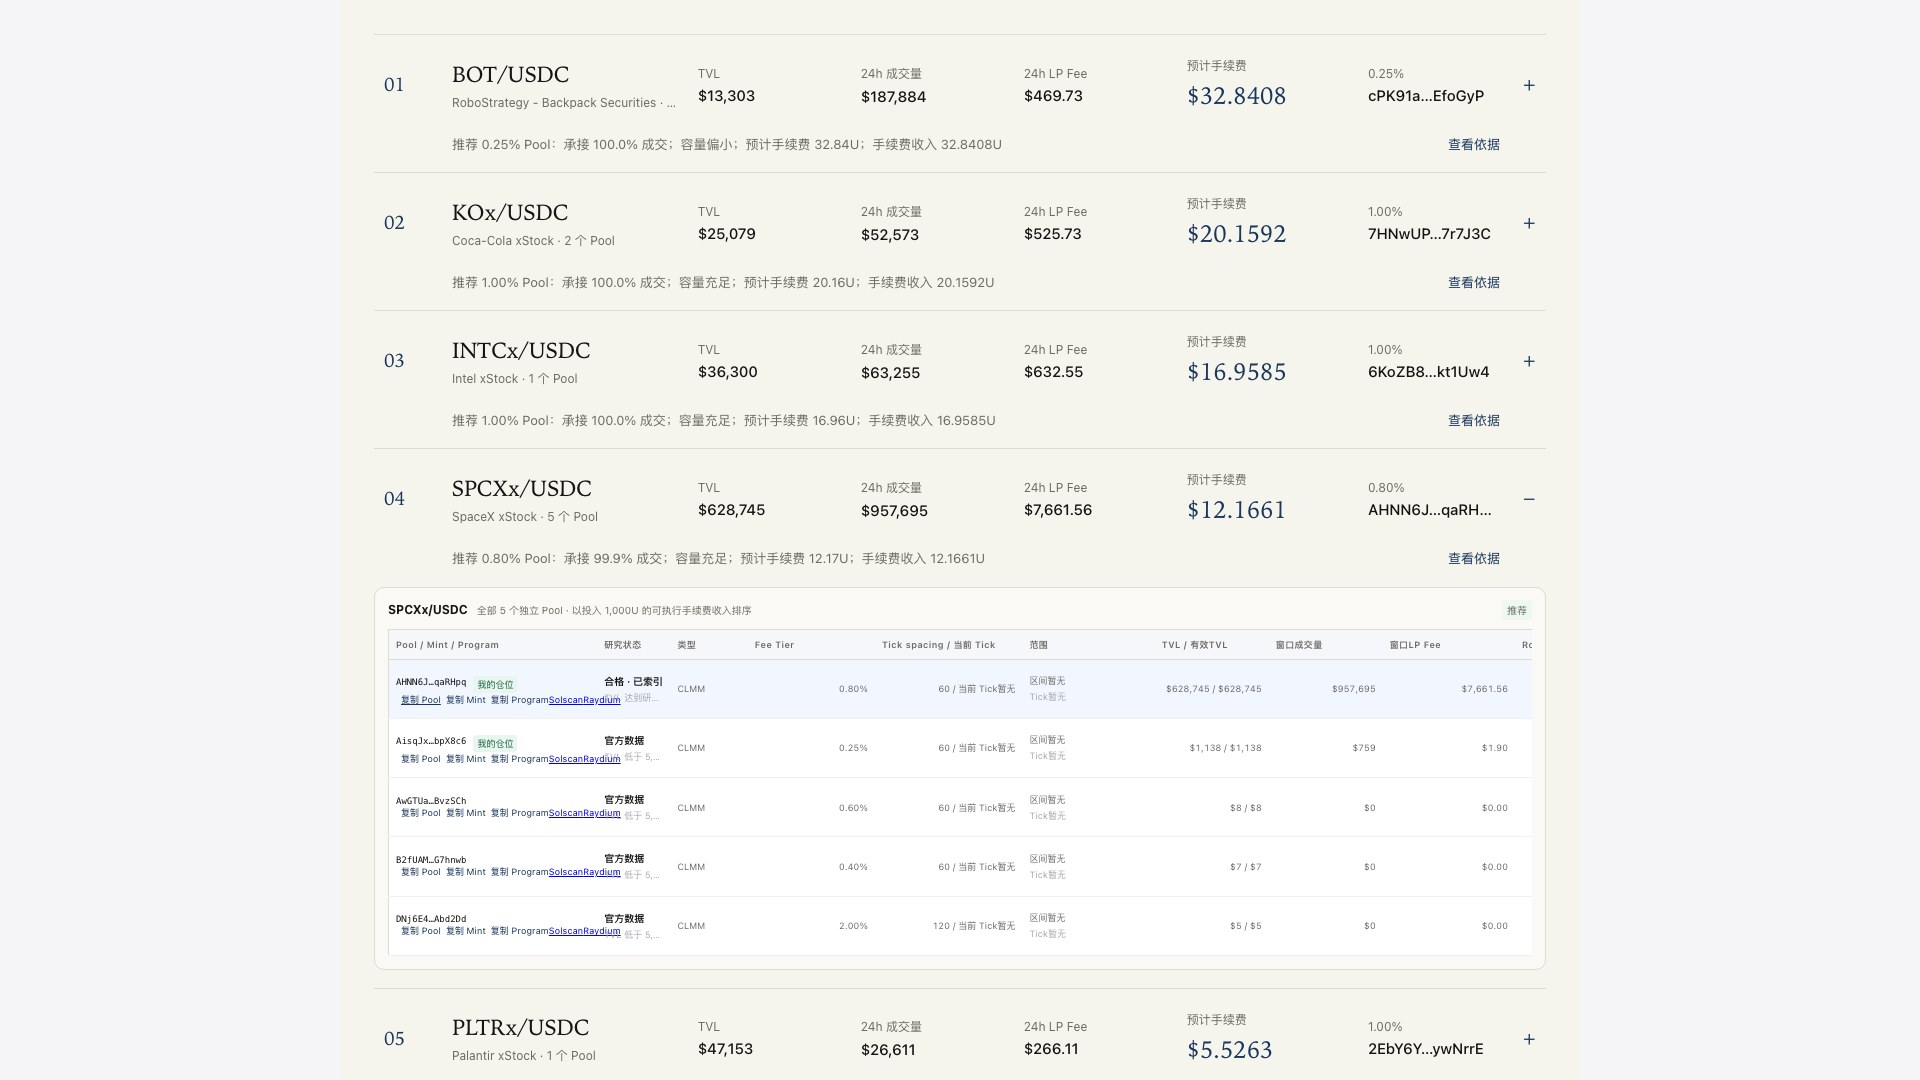
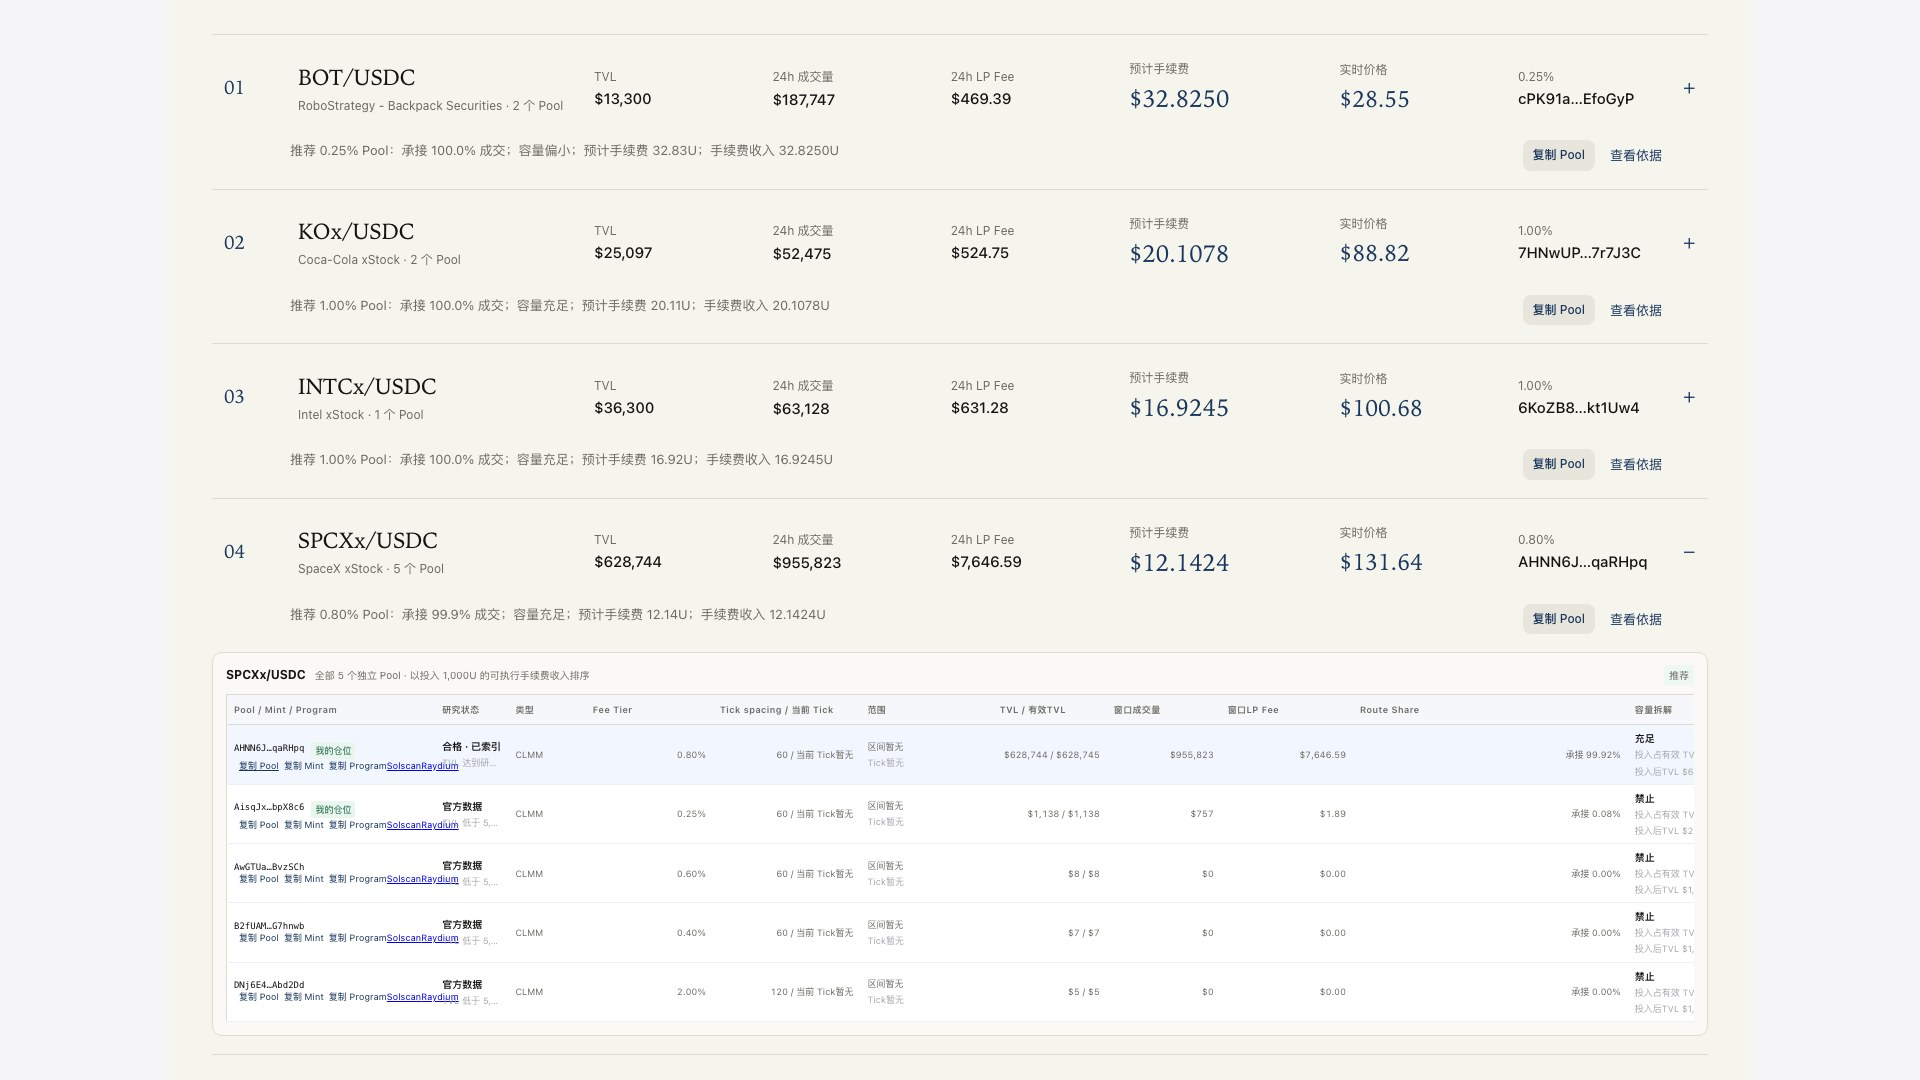
优化多端排名价格与Pool复制

diff --git a/app/globals.css b/app/globals.css
@@ -288,31 +288,36 @@ td small { display: block; max-width: 145px; margin-top: 4px; overflow: hidden; 
 .kami-feature-reason { min-height: 42px; color: var(--terminal-muted); font-size: 11px; line-height: 1.55; }
 .kami-ranking-list { border-top: 1px solid var(--terminal-line); }
 .kami-ranking-item { border-bottom: 1px solid var(--terminal-line); }
-.kami-ranking-main { display: grid; grid-template-columns: 52px minmax(175px, 1.25fr) repeat(3, minmax(112px, .8fr)) minmax(140px, .9fr) 124px 28px; gap: 16px; align-items: center; width: 100%; padding: 22px 10px; border: 0; color: var(--terminal-ink); background: transparent; text-align: left; }
+.kami-ranking-main { display: grid; grid-template-columns: 56px minmax(210px, 1.3fr) repeat(3, minmax(130px, .75fr)) minmax(155px, .9fr) minmax(130px, .75fr) 130px 30px; gap: 18px; align-items: center; width: 100%; padding: 25px 12px; border: 0; color: var(--terminal-ink); background: transparent; text-align: left; }
 .kami-ranking-main:hover { background: #faf9f5; }
 .kami-list-rank { color: var(--terminal-blue); font: 500 19px/1 "Iowan Old Style", Georgia, serif; }
-.kami-list-asset, .kami-list-metric, .kami-list-estimate, .kami-list-pool { display: grid; gap: 5px; min-width: 0; }
+.kami-list-asset, .kami-list-metric, .kami-list-estimate, .kami-list-price, .kami-list-pool { display: grid; gap: 5px; min-width: 0; }
 .kami-list-asset strong { font-size: 22px; }
-.kami-list-asset small, .kami-list-metric small, .kami-list-estimate small, .kami-list-pool small { overflow: hidden; color: var(--terminal-muted); font-size: 12px; text-overflow: ellipsis; white-space: nowrap; }
-.kami-list-metric strong, .kami-list-pool b { overflow: hidden; font-size: 15px; font-weight: 500; text-overflow: ellipsis; white-space: nowrap; }
+.kami-list-asset small, .kami-list-asset em, .kami-list-metric small, .kami-list-estimate small, .kami-list-price small, .kami-list-pool small { overflow: hidden; color: var(--terminal-muted); font-size: 12px; font-style: normal; text-overflow: ellipsis; white-space: nowrap; }
+.kami-asset-price { display: none; }
+.kami-list-metric strong, .kami-list-price strong, .kami-list-pool b { overflow: hidden; font-size: 15px; font-weight: 500; text-overflow: ellipsis; white-space: nowrap; }
 .kami-list-estimate strong { color: var(--terminal-blue); font-size: 24px; font-variant-numeric: tabular-nums; }
+.kami-list-price strong { color: var(--terminal-blue); font-size: 23px; font-family: "Iowan Old Style", "Songti SC", STSong, Georgia, serif; font-weight: 500; font-variant-numeric: tabular-nums; }
 .kami-list-arrow { color: var(--terminal-blue); font: 400 21px/1 Georgia, serif; text-align: right; }
 .kami-list-reason { display: flex; justify-content: space-between; gap: 20px; padding: 0 46px 18px 78px; color: var(--terminal-muted); font-size: 13px; line-height: 1.55; }
+.kami-list-actions { display: flex; flex: 0 0 auto; align-items: center; gap: 15px; }
 .kami-list-reason button { flex: 0 0 auto; padding: 0; border: 0; color: var(--terminal-blue); background: transparent; font-size: 13px; }
+.kami-list-actions .copy-button { margin: 0; padding: 6px 10px; border-radius: 8px; color: var(--terminal-blue); background: #e8e6dc; font-size: 12px; font-weight: 500; text-decoration: none; }
+.kami-list-actions .copy-button:hover { box-shadow: 0 0 0 1px #c9c6ba; }
 .kami-ranking-item .pool-subtable { margin: 0 0 18px; border: 1px solid var(--terminal-line); border-radius: 10px; background: var(--terminal-paper); }
 .kami-footer { margin-top: 44px; padding-top: 18px; border-top: 1px solid var(--terminal-line); color: var(--terminal-muted); font-size: 10px; line-height: 1.6; }
 .ranking-loading, .ranking-error, .window-selection-notice { max-width: none; margin-top: 18px; }
 .evidence-drawer, .wallet-modal { background: var(--terminal-paper); }
 
-@media (max-width: 960px) {
+@media (max-width: 1180px) {
   .kami-hero-grid { grid-template-columns: 1fr; gap: 32px; }
   .kami-hero aside { max-width: 270px; }
   .kami-feature-grid { grid-template-columns: 1fr; }
   .kami-feature-card { grid-template-columns: 36px 1fr auto; align-items: start; }
   .kami-feature-yield { padding-top: 0; border-top: 0; text-align: right; }
   .kami-feature-metrics, .kami-feature-reason { grid-column: 2 / -1; }
-  .kami-ranking-main { grid-template-columns: 42px minmax(155px, 1.2fr) repeat(2, minmax(105px, .8fr)) 135px 24px; }
-  .kami-ranking-main .kami-list-metric:nth-of-type(4), .kami-list-pool { display: none; }
+  .kami-ranking-main { grid-template-columns: 42px minmax(155px, 1.2fr) 112px 135px 24px; }
+  .kami-ranking-main .kami-list-metric, .kami-list-pool { display: none; }
 }
 
 @media (max-width: 680px) {
@@ -327,6 +332,8 @@ td small { display: block; max-width: 145px; margin-top: 4px; overflow: hidden; 
   .kami-feature-yield strong { font-size: 28px; }
   .kami-ranking-main { grid-template-columns: 34px minmax(0, 1fr) 120px 20px; gap: 10px; padding: 19px 2px; }
   .kami-ranking-main .kami-list-metric, .kami-ranking-main .kami-list-pool { display: none; }
+  .kami-list-price { display: none; }
+  .kami-asset-price { display: block; color: var(--terminal-blue) !important; font-size: 12px !important; }
   .kami-list-estimate { text-align: right; }
   .kami-list-rank { font-size: 17px; }
   .kami-list-asset strong { font-size: 20px; }
@@ -334,6 +341,8 @@ td small { display: block; max-width: 145px; margin-top: 4px; overflow: hidden; 
   .kami-list-estimate strong { font-size: 21px; }
   .kami-list-reason { align-items: start; padding: 0 2px 17px 44px; font-size: 12px; }
   .kami-list-reason button { font-size: 12px; }
+  .kami-list-actions { gap: 11px; }
+  .kami-list-actions .copy-button { padding: 6px 9px; font-size: 11px; }
   .kami-list-reason span { display: -webkit-box; overflow: hidden; -webkit-box-orient: vertical; -webkit-line-clamp: 2; }
 }
 
@@ -1042,5 +1051,5 @@ td { padding-top: 13px; padding-bottom: 13px; }
 }
 
 /* Final precedence for the current Kami research-note surface. */
-.terminal-shell { max-width: 1240px; margin: 0 auto; padding: 0 34px 60px; background: #f5f4ed; color: #141413; }
+.terminal-shell { max-width: 1580px; margin: 0 auto; padding: 0 42px 64px; background: #f5f4ed; color: #141413; }
 @media (max-width: 680px) { .terminal-shell { padding: 0 16px 40px; } }

diff --git a/app/dashboard-client.tsx b/app/dashboard-client.tsx
@@ -137,15 +137,16 @@ function RankingListItem({ pair, rank, expanded, onToggle, onEvidence, positionP
   return <article className={`kami-ranking-item ${expanded ? "expanded" : ""}`}>
     <button className="kami-ranking-main ranking-row" onClick={onToggle} data-testid={`pair-row-${rowId}`}>
       <span className="kami-list-rank">{rank > 0 ? String(rank).padStart(2, "0") : "—"}</span>
-      <span className="kami-list-asset"><strong>{pair.symbol}</strong><small>{pair.underlying} · {pair.allPools.length} 个 Pool</small></span>
+      <span className="kami-list-asset"><strong>{pair.symbol}</strong><small>{pair.underlying} · {pair.allPools.length} 个 Pool</small><em className="kami-asset-price">实时价格 {stockPrice(pair.currentPrice ?? pool?.currentPrice ?? null)}</em></span>
       <span className="kami-list-metric"><small>TVL</small><strong>{money(pair.tvl ?? pool?.tvl ?? null, 0)}</strong></span>
       <span className="kami-list-metric"><small>24h 成交量</small><strong>{money(pair.volume ?? pool?.volume ?? null, 0)}</strong></span>
       <span className="kami-list-metric"><small>24h LP Fee</small><strong>{money(pair.lpFee ?? pool?.lpFee ?? null, 2)}</strong></span>
       <span className="kami-list-estimate"><small>预计手续费</small><strong>{money(pair.estimatedFeeIncome.value, 4)}</strong></span>
+      <span className="kami-list-price"><small>实时价格</small><strong>{stockPrice(pair.currentPrice ?? pool?.currentPrice ?? null)}</strong></span>
       <span className="kami-list-pool"><small>{pool?.feeTier ?? "Fee Tier暂无"}</small><b>{shortAddress(pool?.poolAddress)}</b></span>
       <span className="kami-list-arrow" aria-hidden="true">{expanded ? "−" : "+"}</span>
     </button>
-    <div className="kami-list-reason"><span>{pair.shortReason}</span><button onClick={onEvidence} data-testid={`decision-${rowId}`}>查看依据</button></div>
+    <div className="kami-list-reason"><span>{pair.shortReason}</span><div className="kami-list-actions"><CopyButton value={pool?.poolAddress} label="复制 Pool" testId={`copy-ranked-pool-${rowId}`} onCopied={onCopied} /><button onClick={onEvidence} data-testid={`decision-${rowId}`}>查看依据</button></div></div>
     {expanded ? <PoolSubtable pair={pair} positionPoolIds={positionPoolIds} onCopied={onCopied} showNet={showNet} /> : null}
   </article>;
 }
